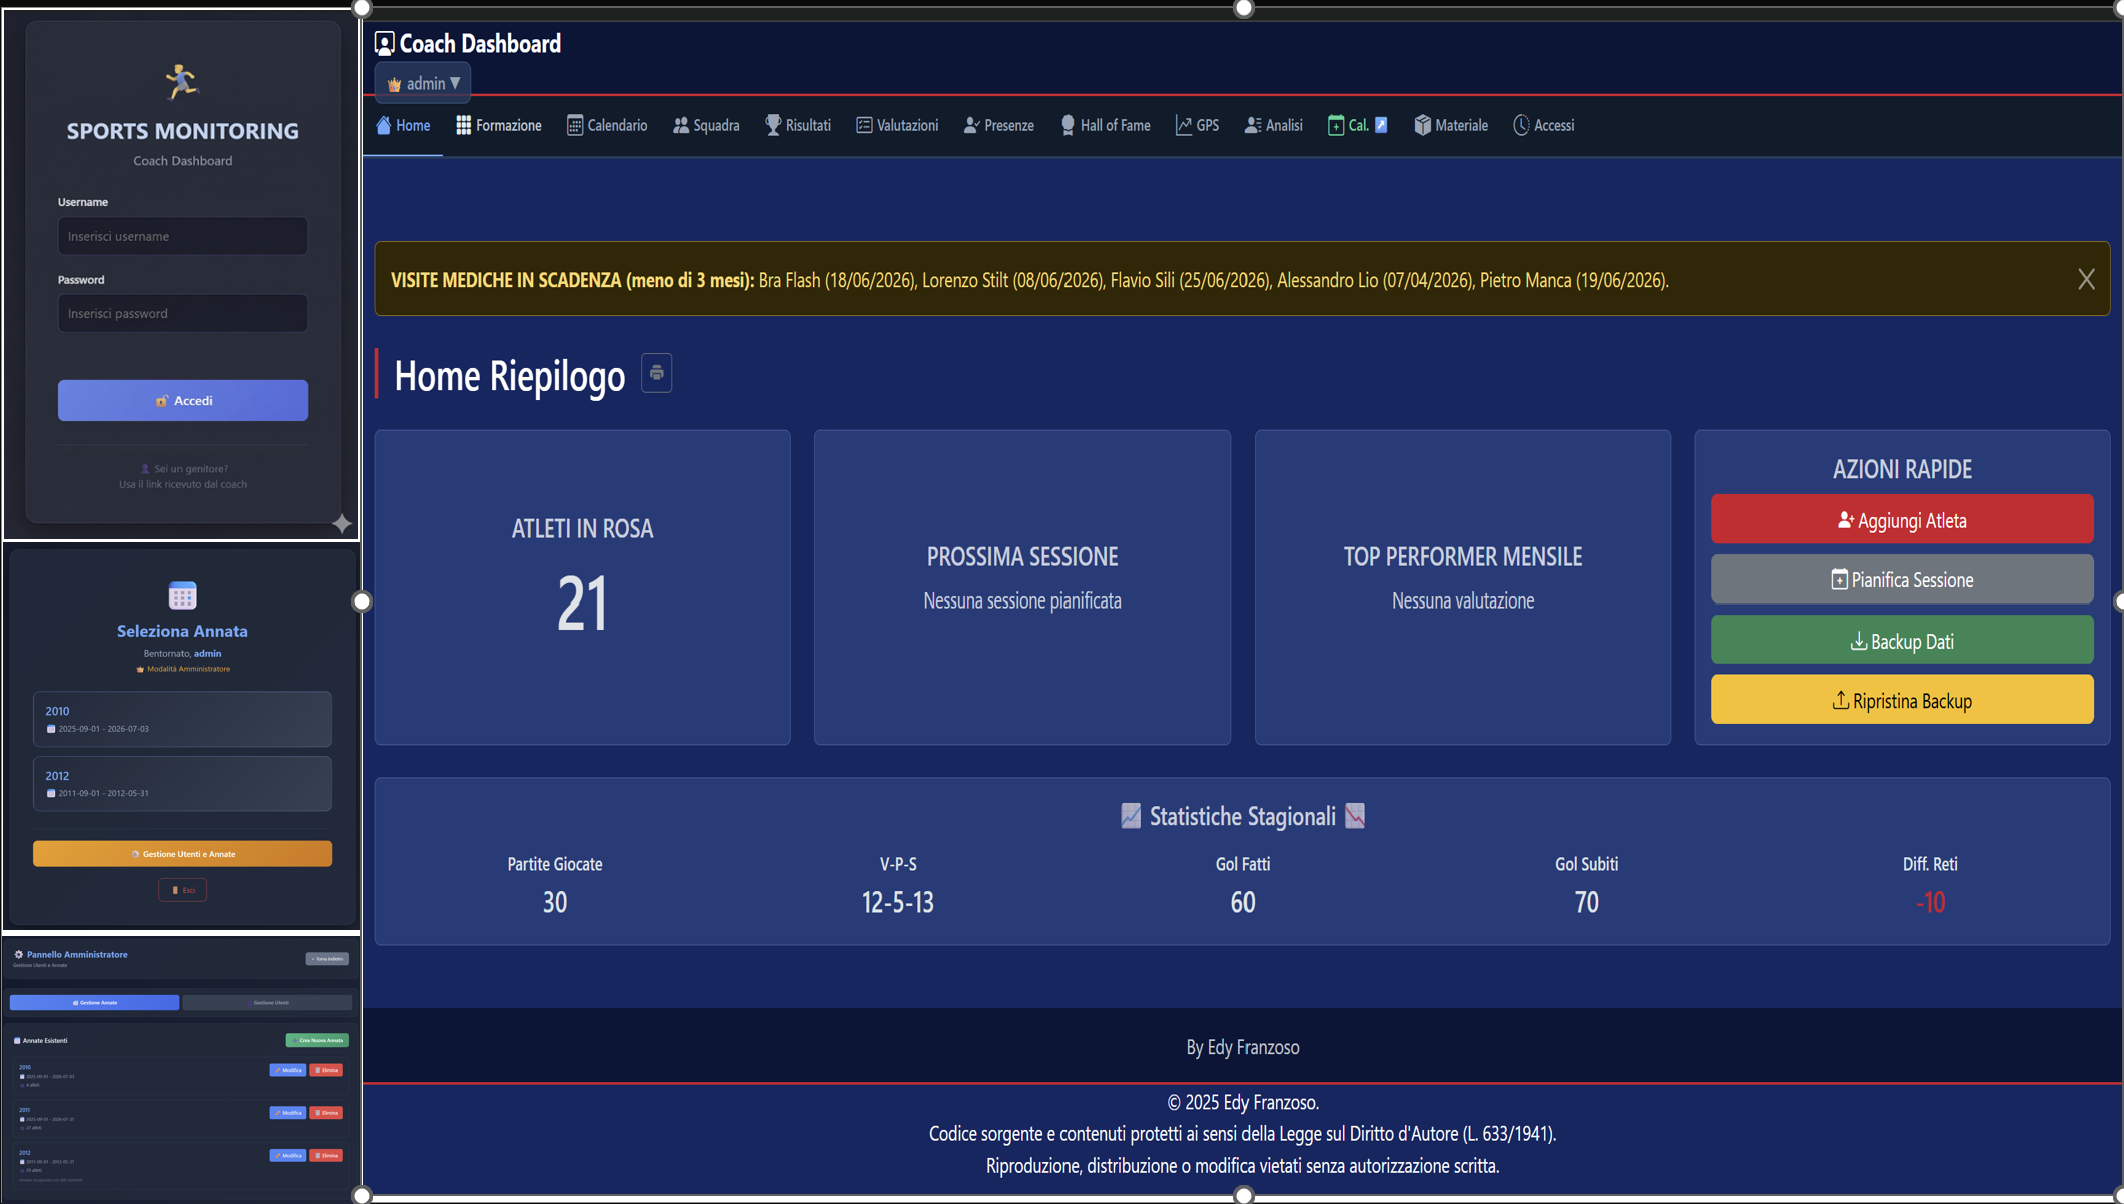
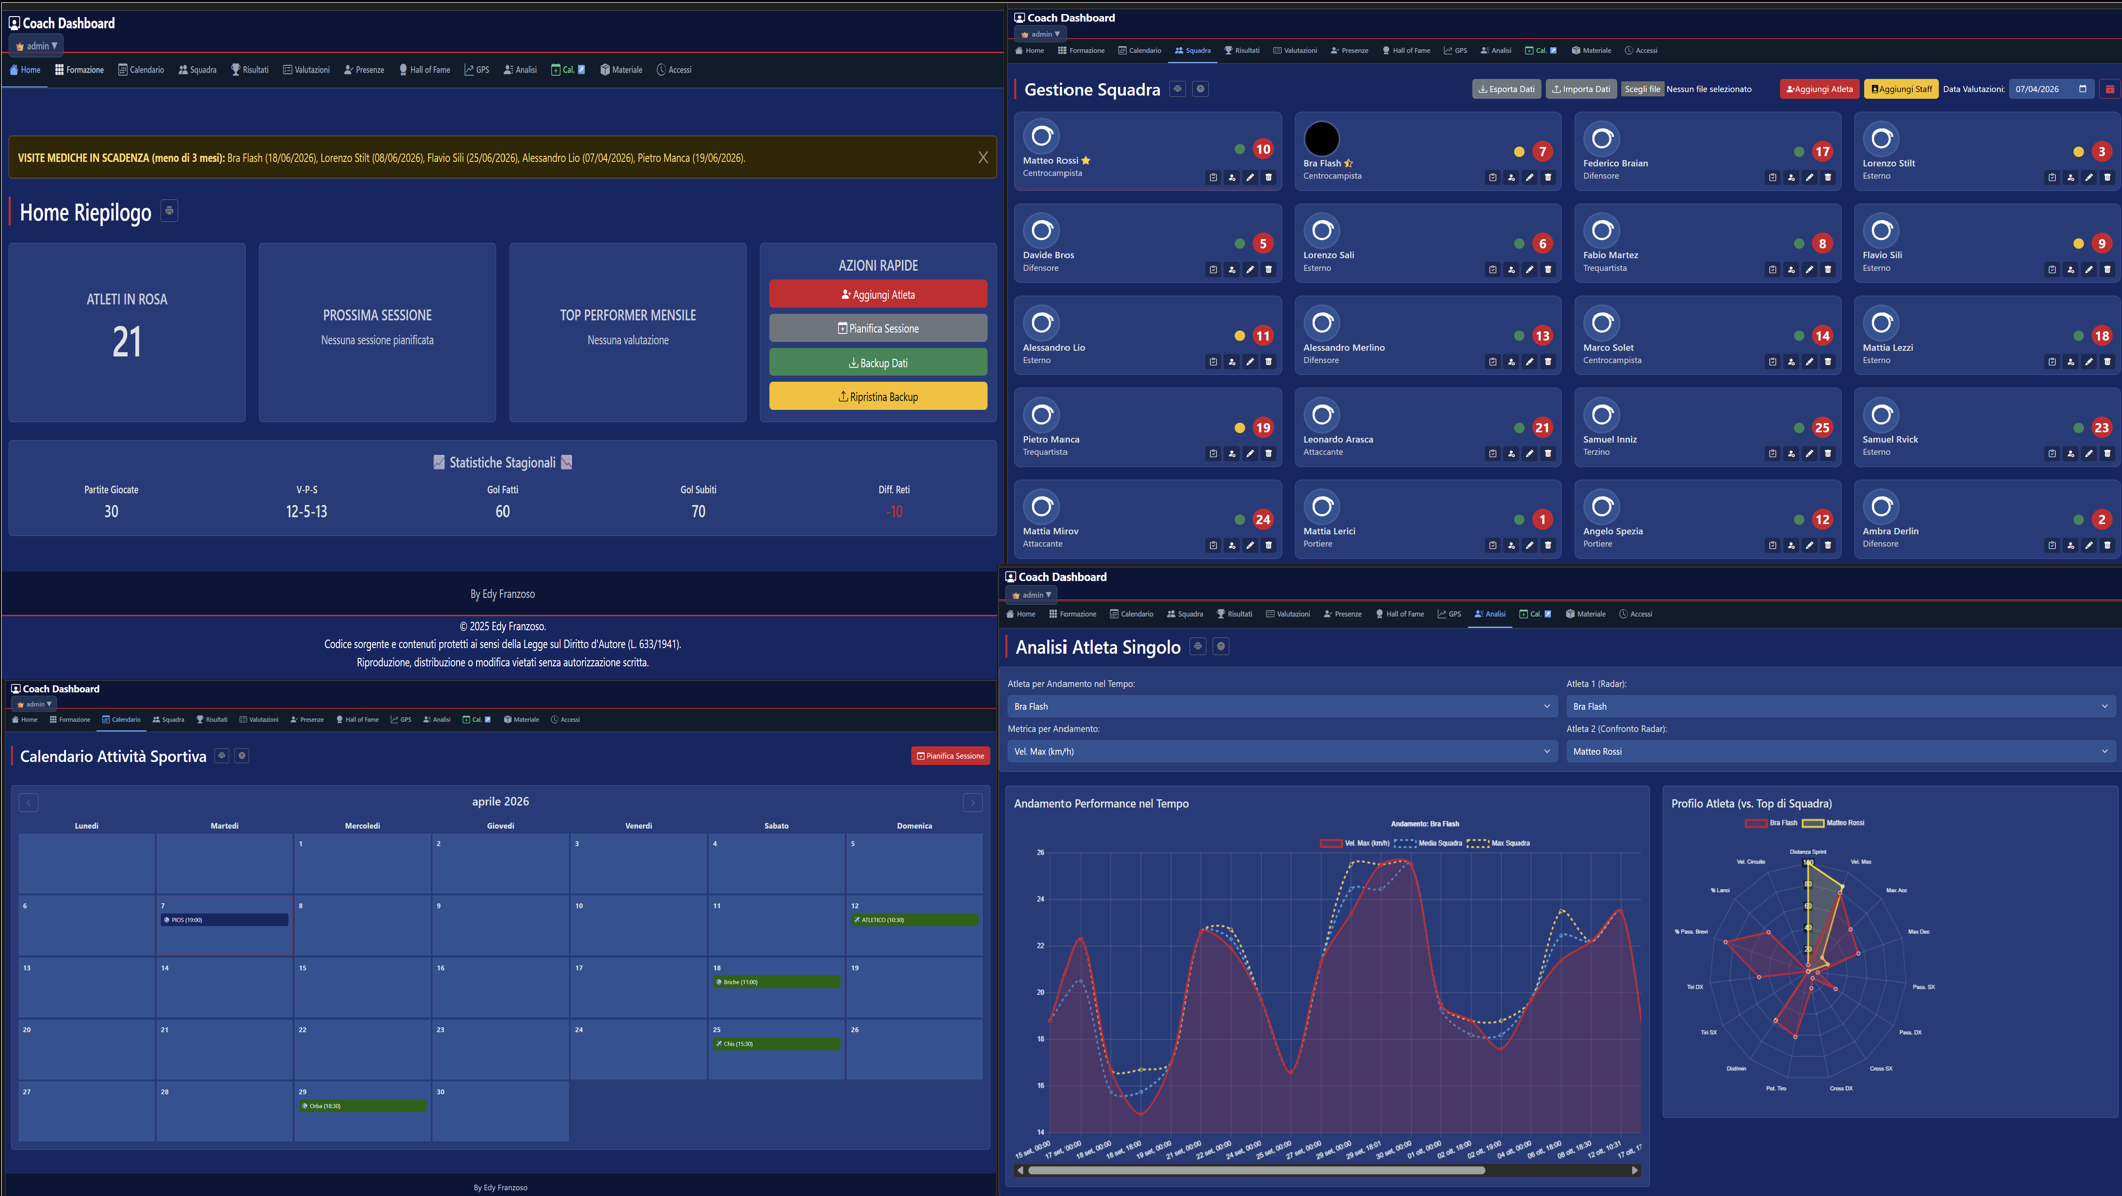
feat: aggiorna screenshot da PowerPoint + galleria a 2 colonne
- Sostituiti 10 screenshot con versioni aggiornate dal PowerPoint
- Aggiunto accessi.png (mancante)
- Galleria: griglia 3→2 colonne, aspect-ratio 16/9, testo compatto

diff --git a/index.html b/index.html
@@ -526,8 +526,8 @@
 
   .gallery-grid {
     display: grid;
-    grid-template-columns: repeat(3, 1fr);
-    gap: 24px;
+    grid-template-columns: repeat(2, 1fr);
+    gap: 28px;
     margin-top: 60px;
   }
 
@@ -545,7 +545,7 @@
 
   .gallery-img-wrap {
     position: relative; overflow: hidden;
-    aspect-ratio: 16/10; background: var(--bg3);
+    aspect-ratio: 16/9; background: var(--bg3);
     display: flex; align-items: center; justify-content: center;
     cursor: pointer;
   }
@@ -575,12 +575,15 @@
     font-size: .65rem; font-weight: 700; letter-spacing: 1.5px; text-transform: uppercase;
   }
 
-  .gallery-body { padding: 20px 22px 24px; flex: 1; display: flex; flex-direction: column; gap: 8px; }
+  .gallery-body { padding: 14px 18px 16px; flex: 0; display: flex; flex-direction: column; gap: 6px; }
   .gallery-title {
     font-family: 'Barlow Condensed', sans-serif;
-    font-size: 1.15rem; font-weight: 700; text-transform: uppercase; letter-spacing: .5px;
+    font-size: 1.1rem; font-weight: 700; text-transform: uppercase; letter-spacing: .5px;
   }
-  .gallery-caption { font-size: .85rem; color: var(--muted); line-height: 1.6; flex: 1; }
+  .gallery-caption {
+    font-size: .8rem; color: var(--muted); line-height: 1.5;
+    display: -webkit-box; -webkit-line-clamp: 2; -webkit-box-orient: vertical; overflow: hidden;
+  }
 
   /* Lightbox */
   .lightbox {
@@ -644,10 +647,7 @@
   .lightbox-prev { left: 16px; }
   .lightbox-next { right: 16px; }
 
-  @media (max-width: 900px) {
-    .gallery-grid { grid-template-columns: 1fr 1fr; }
-  }
-  @media (max-width: 540px) {
+  @media (max-width: 700px) {
     .gallery-grid { grid-template-columns: 1fr; }
   }
 
@@ -1011,7 +1011,7 @@
       <h2 class="section-title">Ogni modulo,<br><span>nel dettaglio</span></h2>
       <p class="section-desc">Esplora tutti i fogli dell'app con anteprime reali e descrizioni delle funzionalità.</p>
     </div>
-    <div class="gallery-grid" style="grid-template-columns:repeat(3,1fr);">
+    <div class="gallery-grid" style="grid-template-columns:repeat(2,1fr);">
 
       <!-- Home -->
       <div class="gallery-card reveal" data-lb="0" onclick="lbOpen(this)" style="cursor:pointer;">
